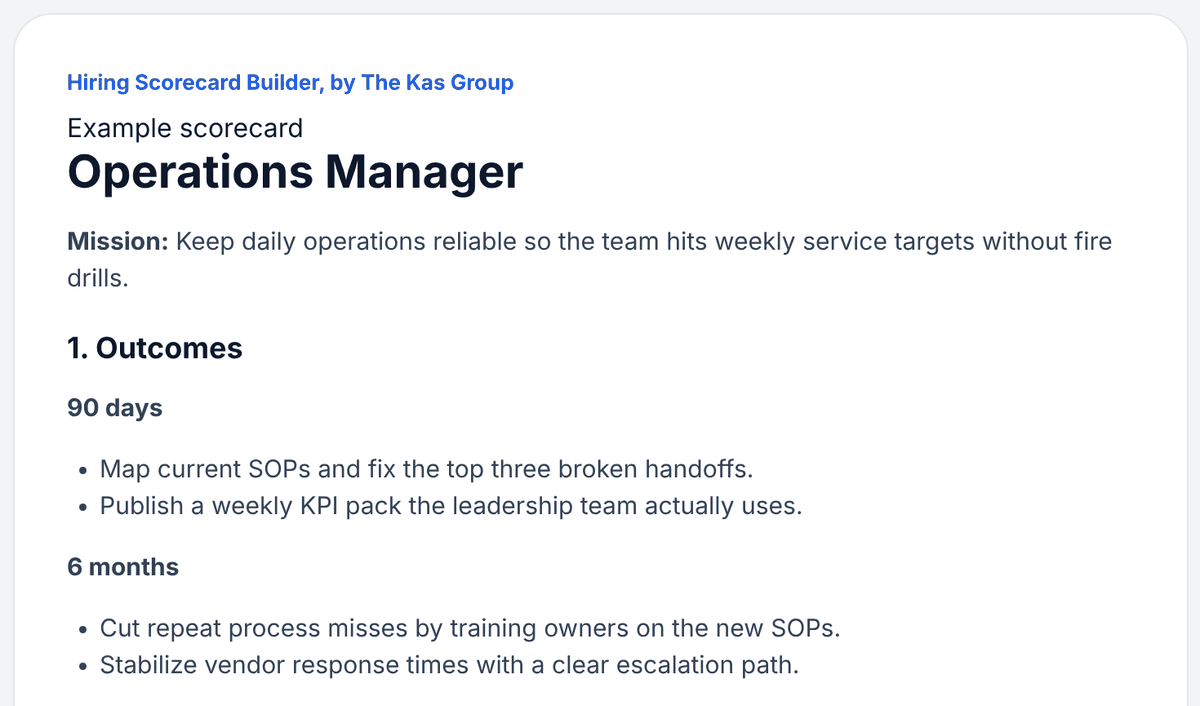
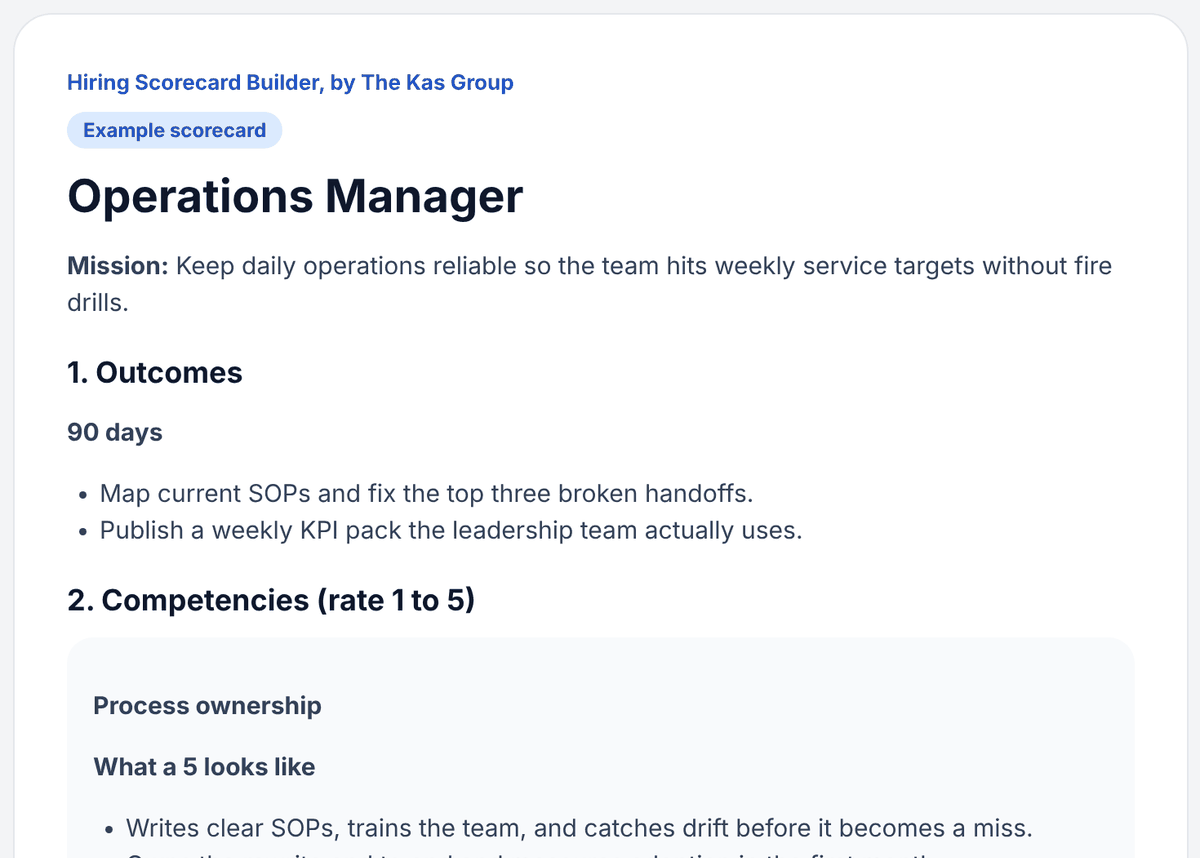
Hiring scorecard: per-competency questions and what-a-5 anchors (#70)
Add questions, fiveLooksLike, and optional threeLooksLike on each
competency; shrink general Qs to Additional interview questions;
update SSR copy, FAQ, and example images; raise max_tokens to 5000.

diff --git a/src/app/hiring-scorecard/page.tsx b/src/app/hiring-scorecard/page.tsx
@@ -5,11 +5,11 @@ import ExampleLightbox from "./ExampleLightbox";
 const FAQS = [
     {
         q: "What is a hiring scorecard?",
-        a: "A hiring scorecard defines the mission, outcomes, competencies and interview questions for a role before you interview anyone. Every candidate is rated on the same 1 to 5 scale so the team can compare people fairly.",
+        a: "A hiring scorecard defines the mission, outcomes, competencies and interview questions for a role before you interview anyone. Each competency has questions that test it, a clear picture of what a 5 looks like, and red flags, so every candidate is rated on the same 1 to 5 scale.",
     },
     {
         q: "How do you build a hiring scorecard for a sales role?",
-        a: "Start with the mission and the outcomes at 90 days, 6 months and 12 months. Add competencies that cover quota ownership, ramp, deal motion and discovery. Map interview and reference questions to each competency. This tool adds those sales focused sections when the role looks like GTM or sales.",
+        a: "Start with the mission and the outcomes at 90 days, 6 months and 12 months. Add competencies that cover quota ownership, ramp, deal motion and discovery. Put 1 to 2 questions under each competency, write what a 5 looks like in concrete behaviors, and keep a short list of additional cross-cutting questions.",
     },
     {
         q: "How many competencies should a scorecard have?",
@@ -17,15 +17,15 @@ const FAQS = [
     },
     {
         q: "How do you rate candidates fairly?",
-        a: "Write what a 5 looks like and the red flags before the first interview. Ask every candidate the same mapped questions. Score each competency 1 to 5 with notes, then compare the cards, not the vibes.",
+        a: "Write what a 5 looks like and the red flags before the first interview. Ask the competency questions of every candidate. Score each competency 1 to 5 with notes, then compare the cards, not the vibes.",
     },
     {
         q: "Does this tool store my job description?",
-        a: "No. Pasted text is sent to an AI provider to build the scorecard and is not stored by us. Optional email capture is separate and only used if you choose to leave an address.",
+        a: "No. Pasted text is sent to an AI provider to build the scorecard and is not stored by us. An optional email goes to The Kas Group and is used to follow up.",
     },
     {
         q: "Can I use this for AI or data roles?",
-        a: "Yes. When the role looks like AI, data or ML, the scorecard adds sections for technical depth, evaluation approach and tooling, on top of the standard mission, outcomes and competencies.",
+        a: "Yes. When the role looks like AI, data or ML, the scorecard adds sections for technical depth, evaluation approach and tooling, on top of the standard mission, outcomes and per-competency questions.",
     },
 ];
 
@@ -74,7 +74,7 @@ export default function HiringScorecardPage() {
                         <div className="lg:col-span-3 p-6 rounded-2xl bg-blue-accent/5 border-2 border-blue-accent">
                             <h2 className="text-xl font-bold text-navy-900 mb-3">Direct answer</h2>
                             <p className="text-base text-grey-700 leading-relaxed">
-                                A hiring scorecard defines the outcomes, skills and interview questions for a role before you interview anyone. Paste a job description below to build one with a 1 to 5 rating scale, must-haves and reference checks. Pair it with{" "}
+                                A hiring scorecard defines the outcomes, skills and interview questions for a role before you interview anyone. Paste a job description below to build one with per-competency questions, a clear &ldquo;what a 5 looks like&rdquo; anchor, must-haves and reference checks. Pair it with{" "}
                                 <Link href="/guides/account-executive-interview-questions" className={link}>AE interview questions</Link>
                                 {" "}and{" "}
                                 <Link href="/guides/cost-of-a-bad-hire" className={link}>the cost of a bad hire</Link>
@@ -101,9 +101,9 @@ export default function HiringScorecardPage() {
                         <ol className="list-decimal pl-6 space-y-2">
                             <li>Mission: one sentence on why the seat exists.</li>
                             <li>Outcomes at 90 days, 6 months and 12 months.</li>
-                            <li>Competencies rated 1 to 5, with what a 5 looks like and the red flags.</li>
+                            <li>Competencies rated 1 to 5, each with questions that test it, what a 5 looks like, an optional 3 bar, and red flags.</li>
+                            <li>A short list of additional interview questions for motivation, culture and logistics.</li>
                             <li>Must-haves versus nice-to-haves.</li>
-                            <li>Interview questions mapped to each competency.</li>
                             <li>Reference-check questions for the same competencies.</li>
                         </ol>
                     </div>
@@ -120,8 +120,14 @@ export default function HiringScorecardPage() {
                                 <li>Publish a weekly KPI pack the leadership team actually uses.</li>
                             </ul>
                             <p className="font-semibold text-navy-900">Sample competency: Process ownership</p>
-                            <p>What a 5 looks like: writes clear SOPs, trains the team, and catches drift before it becomes a miss.</p>
-                            <p>Red flags: blames other teams, cannot show a process they personally improved.</p>
+                            <p><span className="font-semibold">What a 5 looks like:</span> Writes clear SOPs, trains the team, and catches drift before it becomes a miss.</p>
+                            <p><span className="font-semibold">What a 3 looks like:</span> Follows existing SOPs and flags problems, but rarely owns a rewrite end to end.</p>
+                            <p><span className="font-semibold">Red flags:</span> Blames other teams, cannot show a process they personally improved.</p>
+                            <p><span className="font-semibold">Questions for this competency:</span></p>
+                            <ul className="list-disc pl-6">
+                                <li>Walk me through a process you rebuilt end to end. What changed?</li>
+                                <li>How do you know an SOP is actually being followed?</li>
+                            </ul>
                             <p className="text-sm text-grey-500">Built with The Kas Group · example only</p>
                         </div>
                     </div>

diff --git a/src/app/hiring-scorecard/ScorecardBuilder.tsx b/src/app/hiring-scorecard/ScorecardBuilder.tsx
@@ -25,16 +25,20 @@ function scorecardPlainText(s: Scorecard): string {
     ];
     s.competencies.forEach((c, i) => {
         lines.push(`${i + 1}. ${c.name}`);
-        lines.push(`   What a 5 looks like: ${c.whatFiveLooksLike}`);
+        lines.push(`   What a 5 looks like:`);
+        c.fiveLooksLike.forEach((x) => lines.push(`     - ${x}`));
+        if (c.threeLooksLike) lines.push(`   What a 3 looks like: ${c.threeLooksLike}`);
         lines.push(`   Red flags: ${c.redFlags}`);
-        lines.push(`   Interview questions:`);
-        c.interviewQuestions.forEach((q) => lines.push(`     - ${q}`));
+        lines.push(`   Questions for this competency:`);
+        c.questions.forEach((q) => lines.push(`     - ${q}`));
         lines.push(`   Reference-check questions:`);
         c.referenceQuestions.forEach((q) => lines.push(`     - ${q}`));
     });
-    lines.push("", `4. Must-haves`);
+    lines.push("", `4. Additional interview questions`);
+    s.additionalInterviewQuestions.forEach((x) => lines.push(`  - ${x}`));
+    lines.push("", `5. Must-haves`);
     s.mustHaves.forEach((x) => lines.push(`  - ${x}`));
-    lines.push("", `5. Nice-to-haves`);
+    lines.push("", `6. Nice-to-haves`);
     s.niceToHaves.forEach((x) => lines.push(`  - ${x}`));
     lines.push("", `Built with The Kas Group`, `https://www.thekasgroup.com/hiring-scorecard`);
     return lines.join("\n");
@@ -192,11 +196,17 @@ export default function ScorecardBuilder() {
                         {scorecard.competencies.map((c) => (
                             <div key={c.name} className="rounded-2xl bg-grey-50 p-5 space-y-2">
                                 <p className="font-bold text-navy-900">{c.name}</p>
-                                <p className="text-grey-700"><span className="font-semibold">What a 5 looks like:</span> {c.whatFiveLooksLike}</p>
+                                <div>
+                                    <p className="font-semibold text-navy-900">What a 5 looks like</p>
+                                    <ul className="list-disc pl-6 text-grey-700">{c.fiveLooksLike.map((x) => <li key={x}>{x}</li>)}</ul>
+                                </div>
+                                {c.threeLooksLike && (
+                                    <p className="text-grey-700"><span className="font-semibold">What a 3 looks like:</span> {c.threeLooksLike}</p>
+                                )}
                                 <p className="text-grey-700"><span className="font-semibold">Red flags:</span> {c.redFlags}</p>
                                 <div>
-                                    <p className="font-semibold text-navy-900">Interview questions</p>
-                                    <ul className="list-disc pl-6 text-grey-700">{c.interviewQuestions.map((q) => <li key={q}>{q}</li>)}</ul>
+                                    <p className="font-semibold text-navy-900">Questions for this competency</p>
+                                    <ul className="list-disc pl-6 text-grey-700">{c.questions.map((q) => <li key={q}>{q}</li>)}</ul>
                                 </div>
                                 <div>
                                     <p className="font-semibold text-navy-900">Reference-check questions</p>
@@ -207,11 +217,15 @@ export default function ScorecardBuilder() {
                     </section>
 
                     <section>
-                        <h3 className="text-xl font-bold text-navy-900 mb-2">4. Must-haves</h3>
+                        <h3 className="text-xl font-bold text-navy-900 mb-2">4. Additional interview questions</h3>
+                        <ul className="list-disc pl-6 text-grey-700">{scorecard.additionalInterviewQuestions.map((x) => <li key={x}>{x}</li>)}</ul>
+                    </section>
+                    <section>
+                        <h3 className="text-xl font-bold text-navy-900 mb-2">5. Must-haves</h3>
                         <ul className="list-disc pl-6 text-grey-700">{scorecard.mustHaves.map((x) => <li key={x}>{x}</li>)}</ul>
                     </section>
                     <section>
-                        <h3 className="text-xl font-bold text-navy-900 mb-2">5. Nice-to-haves</h3>
+                        <h3 className="text-xl font-bold text-navy-900 mb-2">6. Nice-to-haves</h3>
                         <ul className="list-disc pl-6 text-grey-700">{scorecard.niceToHaves.map((x) => <li key={x}>{x}</li>)}</ul>
                     </section>
 

diff --git a/src/lib/hiring-scorecard/validate.ts b/src/lib/hiring-scorecard/validate.ts
@@ -6,20 +6,38 @@ function asString(v: unknown, field: string): string {
     return v.trim();
 }
 
-function asStringArray(v: unknown, field: string, min = 1): string[] {
+function asStringArray(v: unknown, field: string, min = 1, max = 8): string[] {
+    if (typeof v === "string" && v.trim()) return [v.trim()];
     if (!Array.isArray(v) || v.length < min) throw new Error(`Invalid ${field}`);
-    return v.map((x, i) => asString(x, `${field}[${i}]`));
+    const out = v.map((x, i) => asString(x, `${field}[${i}]`));
+    return out.slice(0, max);
+}
+
+function asOptionalString(v: unknown): string | undefined {
+    if (typeof v !== "string" || !v.trim()) return undefined;
+    return v.trim();
 }
 
 function asCompetency(v: unknown, i: number): Competency {
     if (!v || typeof v !== "object") throw new Error(`Invalid competencies[${i}]`);
     const c = v as Record<string, unknown>;
+    const questionsRaw = c.questions ?? c.interviewQuestions;
+    const fiveRaw = c.fiveLooksLike ?? c.whatFiveLooksLike;
+    const questions = asStringArray(questionsRaw, `competencies[${i}].questions`, 1, 2);
+    const fiveLooksLike = asStringArray(fiveRaw, `competencies[${i}].fiveLooksLike`, 1, 2);
+    const threeLooksLike = asOptionalString(c.threeLooksLike);
     return {
         name: asString(c.name, `competencies[${i}].name`),
-        whatFiveLooksLike: asString(c.whatFiveLooksLike, `competencies[${i}].whatFiveLooksLike`),
+        questions,
+        fiveLooksLike,
+        ...(threeLooksLike ? { threeLooksLike } : {}),
         redFlags: asString(c.redFlags, `competencies[${i}].redFlags`),
-        interviewQuestions: asStringArray(c.interviewQuestions, `competencies[${i}].interviewQuestions`),
-        referenceQuestions: asStringArray(c.referenceQuestions, `competencies[${i}].referenceQuestions`),
+        referenceQuestions: asStringArray(
+            c.referenceQuestions ?? ["Would you hire this person again for this competency?"],
+            `competencies[${i}].referenceQuestions`,
+            1,
+            3
+        ),
     };
 }
 
@@ -36,6 +54,16 @@ export function validateScorecardPayload(raw: unknown): ScorecardPayload {
     const outcomes = o.outcomes as Record<string, unknown> | undefined;
     if (!outcomes || typeof outcomes !== "object") throw new Error("Missing outcomes");
 
+    let additional = o.additionalInterviewQuestions;
+    if (!Array.isArray(additional) || additional.length < 3) {
+        // Tolerate omission with sensible cross-cutting defaults rather than failing the run.
+        additional = [
+            "Why this role, and why now?",
+            "How do you like to get feedback in the first 90 days?",
+            "What schedule or logistics constraints should we know about?",
+        ];
+    }
+
     const payload: ScorecardPayload = {
         roleTitle: asString(o.roleTitle, "roleTitle"),
         mission: asString(o.mission, "mission"),
@@ -45,6 +73,7 @@ export function validateScorecardPayload(raw: unknown): ScorecardPayload {
             months12: asStringArray(outcomes.months12, "outcomes.months12"),
         },
         competencies: o.competencies.map(asCompetency),
+        additionalInterviewQuestions: asStringArray(additional, "additionalInterviewQuestions", 3, 4),
         mustHaves: asStringArray(o.mustHaves, "mustHaves"),
         niceToHaves: asStringArray(o.niceToHaves, "niceToHaves", 0),
         roleFamily: family as RoleFamily,

diff --git a/src/lib/hiring-scorecard/prompt.ts b/src/lib/hiring-scorecard/prompt.ts
@@ -12,12 +12,14 @@ Return ONLY valid JSON with this exact shape:
   "competencies": [
     {
       "name": "string",
-      "whatFiveLooksLike": "string",
+      "questions": ["interview question that tests this competency", "optional second question"],
+      "fiveLooksLike": ["concrete behavior of a top candidate", "optional second line"],
+      "threeLooksLike": "one line for the acceptable bar",
       "redFlags": "string",
-      "interviewQuestions": ["string", "string"],
       "referenceQuestions": ["string"]
     }
   ],
+  "additionalInterviewQuestions": ["cross-cutting question 1", "question 2", "question 3"],
   "mustHaves": ["string"],
   "niceToHaves": ["string"],
   "roleFamily": "sales" | "ai_data" | "other"
@@ -25,8 +27,9 @@ Return ONLY valid JSON with this exact shape:
 
 Rules:
 - Include 4 to 6 competencies.
+- For EACH competency: 1 to 2 questions that directly test it; 1 to 2 concrete "what a 5 looks like" behavioral lines; optionally one "what a 3 looks like" line; keep red flags.
+- additionalInterviewQuestions: exactly 3 or 4 cross-cutting questions (motivation, culture fit, logistics, work style). Do NOT repeat the per-competency questions there.
 - Neutral across roles. For sales or GTM roles, cover quota ownership, ramp, deal motion, discovery and coaching where relevant. For AI, data or ML roles, cover technical depth, evaluation approach and tooling. Other roles use the standard format.
-- Rate scale context: each competency is scored 1 to 5. Describe what a 5 looks like and the red flags. Do not invent statistics.
 - Voice: clear, direct, commercial. No fluff.
 - Never use em dashes or en dashes. Write ranges with "to".
 - Never claim PhD vetting. Never invent statistics, stories or placement data. Never compare other recruiters. Never use words like rockstar or ninja. Never guarantee results. Never include pricing.

diff --git a/src/app/api/hiring-scorecard/email/route.ts b/src/app/api/hiring-scorecard/email/route.ts
@@ -32,16 +32,20 @@ function scorecardPlainText(s: Scorecard): string {
     ];
     s.competencies.forEach((c, i) => {
         lines.push(`${i + 1}. ${c.name}`);
-        lines.push(`   What a 5 looks like: ${c.whatFiveLooksLike}`);
+        lines.push("   What a 5 looks like:");
+        c.fiveLooksLike.forEach((x) => lines.push(`     - ${x}`));
+        if (c.threeLooksLike) lines.push(`   What a 3 looks like: ${c.threeLooksLike}`);
         lines.push(`   Red flags: ${c.redFlags}`);
-        lines.push("   Interview questions:");
-        c.interviewQuestions.forEach((q) => lines.push(`     - ${q}`));
+        lines.push("   Questions for this competency:");
+        c.questions.forEach((q) => lines.push(`     - ${q}`));
         lines.push("   Reference-check questions:");
         c.referenceQuestions.forEach((q) => lines.push(`     - ${q}`));
     });
-    lines.push("", "4. Must-haves");
+    lines.push("", "4. Additional interview questions");
+    s.additionalInterviewQuestions.forEach((x) => lines.push(`  - ${x}`));
+    lines.push("", "5. Must-haves");
     s.mustHaves.forEach((x) => lines.push(`  - ${x}`));
-    lines.push("", "5. Nice-to-haves");
+    lines.push("", "6. Nice-to-haves");
     s.niceToHaves.forEach((x) => lines.push(`  - ${x}`));
     lines.push("", "Built with The Kas Group");
     return sanitizeScorecardText(lines.join("\n"));

diff --git a/src/app/hiring-scorecard/ExampleLightbox.tsx b/src/app/hiring-scorecard/ExampleLightbox.tsx
@@ -44,7 +44,7 @@ export default function ExampleLightbox() {
                     src="/images/hiring-scorecard-example-teaser.png"
                     alt="Example hiring scorecard teaser for an Operations Manager role, Built with The Kas Group"
                     width={600}
-                    height={353}
+                    height={429}
                     className="w-full h-auto"
                     priority
                 />
@@ -82,7 +82,7 @@ export default function ExampleLightbox() {
                             src="/images/hiring-scorecard-example.png"
                             alt="Full example hiring scorecard for an Operations Manager role with mission, outcomes, competencies and Built with The Kas Group footer"
                             width={1200}
-                            height={1859}
+                            height={2259}
                             className="w-full h-auto"
                         />
                     </div>

diff --git a/src/lib/page-dates.ts b/src/lib/page-dates.ts
@@ -63,7 +63,7 @@ export const PAGE_DATES: Record<string, PageDates> = {
     "/guides/who-to-hire-vp-sales-startup": { published: "2026-04-04T12:52:48-04:00", modified: "2026-10-24T14:30:00-04:00" },
     "/methodology": { published: "2026-02-27T15:52:13-05:00", modified: "2026-10-14T09:40:00-04:00" },
     "/pip-calculator": { published: "2026-04-20T13:36:28-04:00", modified: "2026-11-05T10:45:00-05:00" },
-    "/hiring-scorecard": { published: "2026-11-05T10:45:00-05:00", modified: "2026-11-05T11:30:00-05:00" },
+    "/hiring-scorecard": { published: "2026-11-05T10:45:00-05:00", modified: "2026-11-05T13:40:00-05:00" },
     "/privacy-policy": { published: "2026-09-10T12:52:29-04:00", modified: "2026-09-16T13:53:41-07:00" },
     "/programs": { published: "2026-09-14T09:28:02-04:00", modified: "2026-10-24T14:30:00-04:00" },
     "/recruit/ai": { published: "2026-02-04T16:43:23-05:00", modified: "2026-10-25T18:30:00-04:00" },

diff --git a/src/lib/hiring-scorecard/types.ts b/src/lib/hiring-scorecard/types.ts
@@ -2,9 +2,13 @@ export type RoleFamily = "sales" | "ai_data" | "other";
 
 export type Competency = {
     name: string;
-    whatFiveLooksLike: string;
+    /** 1 to 2 interview questions that directly test this competency. */
+    questions: string[];
+    /** 1 to 2 concrete behavioral lines for a rating of 5. */
+    fiveLooksLike: string[];
+    /** Optional acceptable bar (rating of 3). */
+    threeLooksLike?: string;
     redFlags: string;
-    interviewQuestions: string[];
     referenceQuestions: string[];
 };
 
@@ -18,6 +22,8 @@ export type Scorecard = {
         months12: string[];
     };
     competencies: Competency[];
+    /** 3 to 4 cross-cutting questions (motivation, culture, logistics). */
+    additionalInterviewQuestions: string[];
     mustHaves: string[];
     niceToHaves: string[];
     roleFamily: RoleFamily;

diff --git a/src/app/api/hiring-scorecard/route.ts b/src/app/api/hiring-scorecard/route.ts
@@ -36,7 +36,7 @@ async function callOpenRouter(
             model,
             models: fallbacks,
             temperature: 0.2,
-            max_tokens: 3500,
+            max_tokens: 5000,
             response_format: { type: "json_object" },
             messages: [
                 { role: "system", content: SYSTEM_PROMPT },
